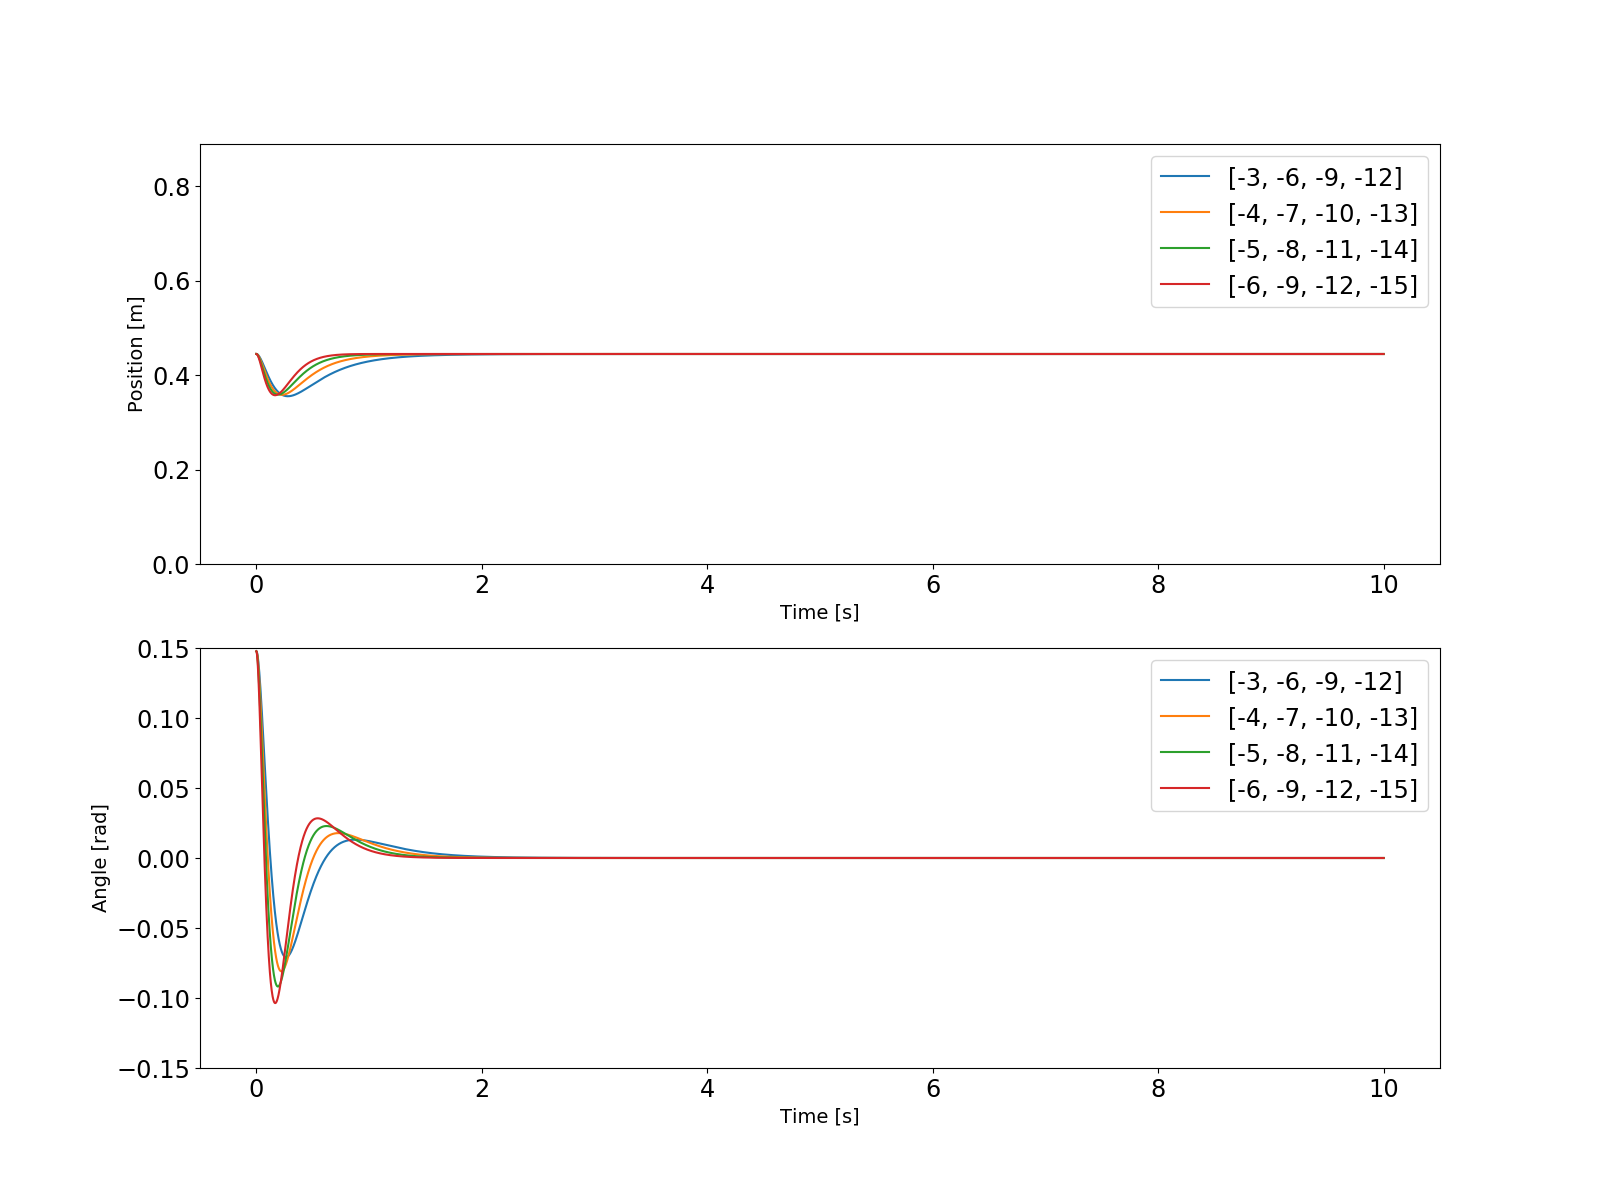
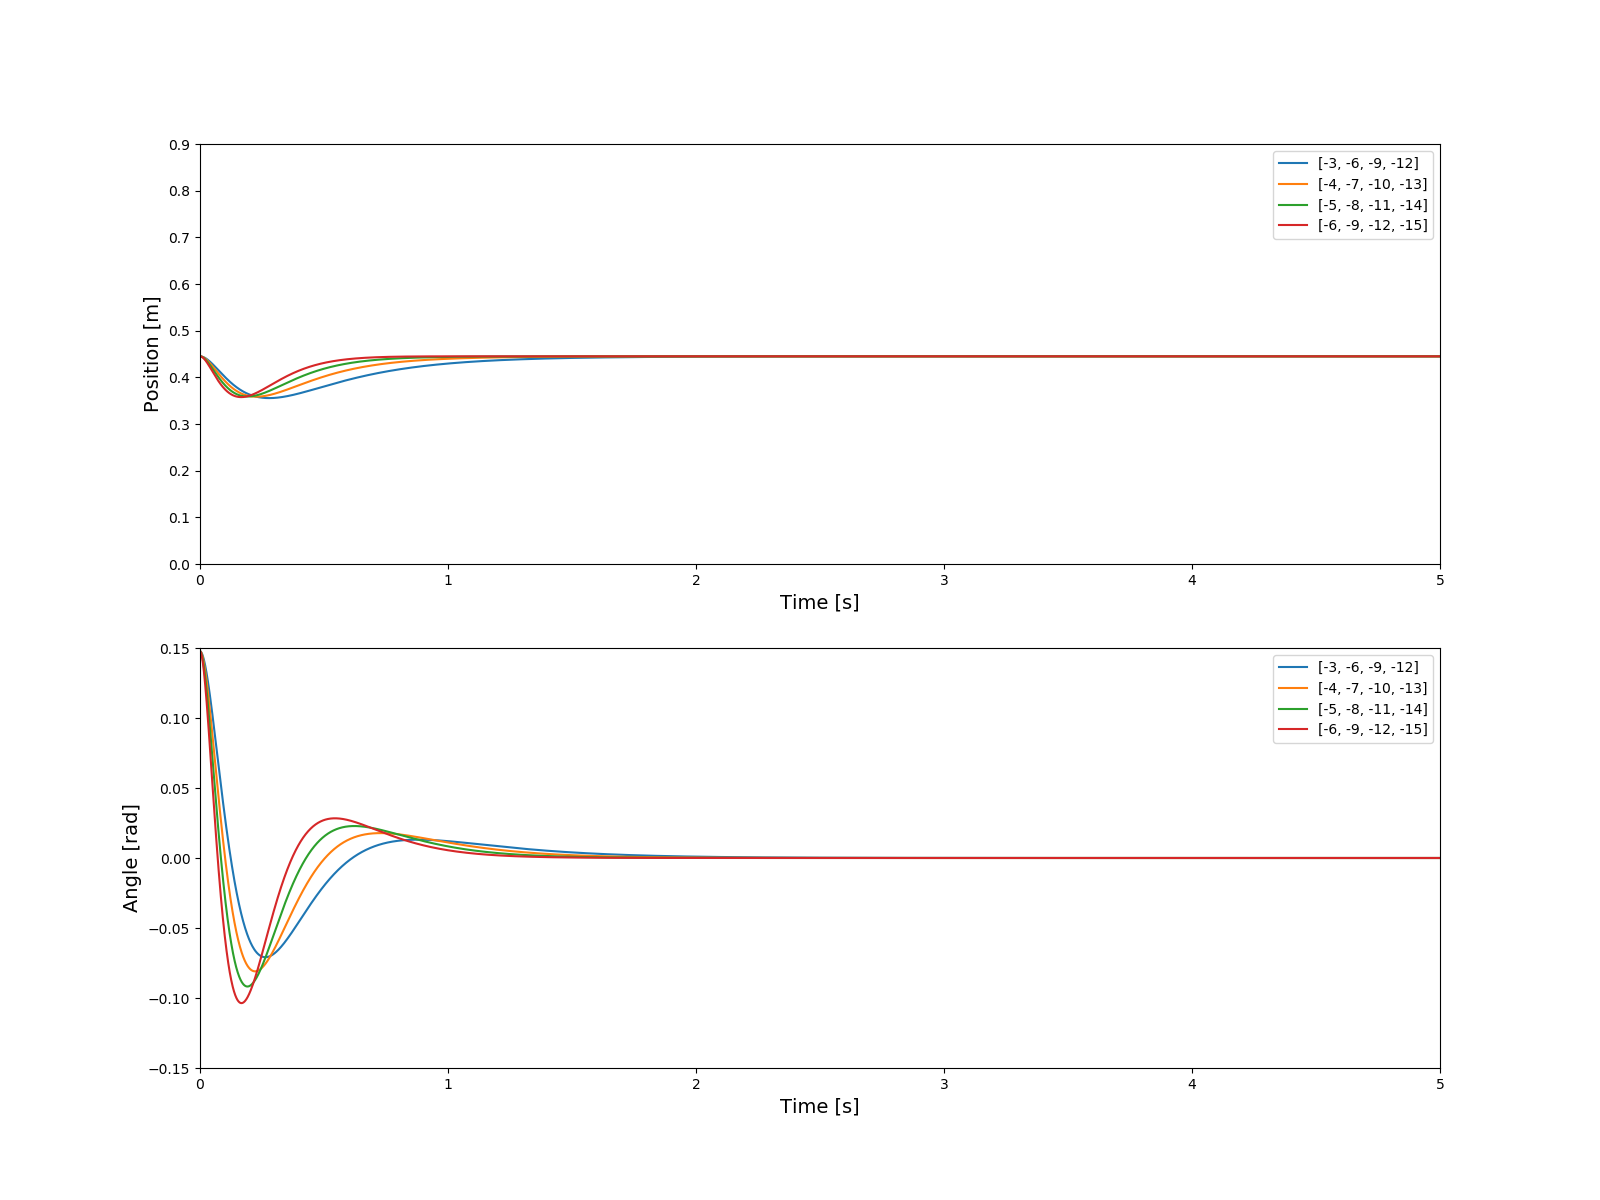
Model Plots update

diff --git a/model_plotting.py b/model_plotting.py
@@ -110,16 +110,18 @@ def plotfig(P):
         plt.ylabel("Position [m]", fontsize=14)
         plt.plot(t_arr, cart_pos)
         plt.ylim(0,0.9) #Position
-        plt.tick_params(labelsize = "xx-large")
-        plt.legend(name, fontsize="xx-large", loc="upper right")
         plt.xlim(0,5)
+#        plt.tick_params(labelsize = "xx-large")
+        plt.legend(name, loc="upper right")
+        plt.xlim(left=0)
         plt.subplot(2,1,2)
         plt.xlabel("Time [s]", fontsize=14)
         plt.ylabel("Angle [rad]", fontsize=14)
         plt.plot(t_arr, pend_ang)
         plt.ylim(-0.15,0.15) #Angle
-        plt.tick_params(labelsize = "xx-large")
-        plt.legend(name, fontsize="xx-large", loc="upper right")
+        plt.xlim(0,5)
+#        plt.tick_params(labelsize = "xx-large")
+        plt.legend(name, loc="upper right")
     
 
 cart_pos = X1 #Cart positions
@@ -150,8 +152,8 @@ for j in range(0,4):
     s += 0.5
 
 # Eigenvalues
-plotfig(P3s)
-#plt.savefig("Figures_of_models/Model_Ref3_Scale.png")
+plotfig(P3p)
+plt.savefig("Figures_of_models/Model_Ref3_Push.png")
 
 
 
